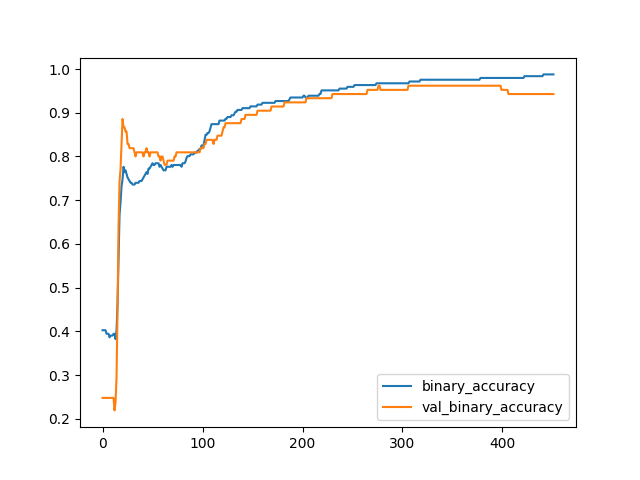
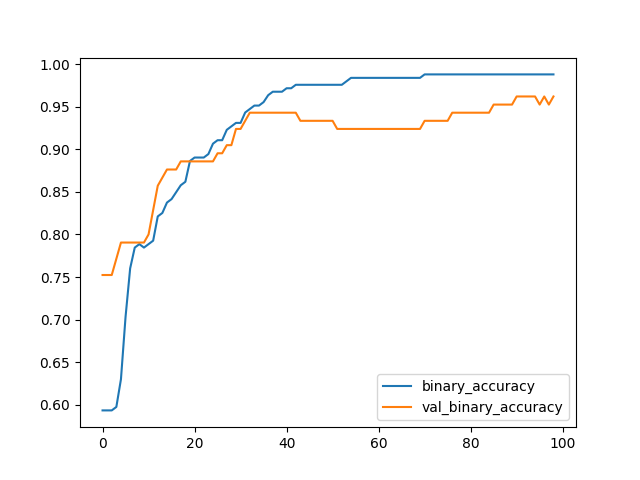
new

diff --git a/deep/2.py b/deep/2.py
@@ -28,8 +28,8 @@ y_train = df_train['Class']
 y_valid = df_valid['Class']
 
 model = keras.Sequential([
-    layers.Dense(20, activation='relu', input_shape=[33]),
-    layers.Dense(20, activation='relu'),    
+    layers.Dense(256, activation='relu', input_shape=[33]),
+    layers.Dense(256, activation='relu'),    
     layers.Dense(1, activation='sigmoid'),
 ])
 
@@ -51,7 +51,7 @@ history = model.fit(
     batch_size=512,
     epochs=1000,
     callbacks=[early_stopping],
-    verbose=0, # hide the output because we have so many epochs
+   # verbose=0, # hide the output because we have so many epochs
 )
 
 history_df = pd.DataFrame(history.history)
